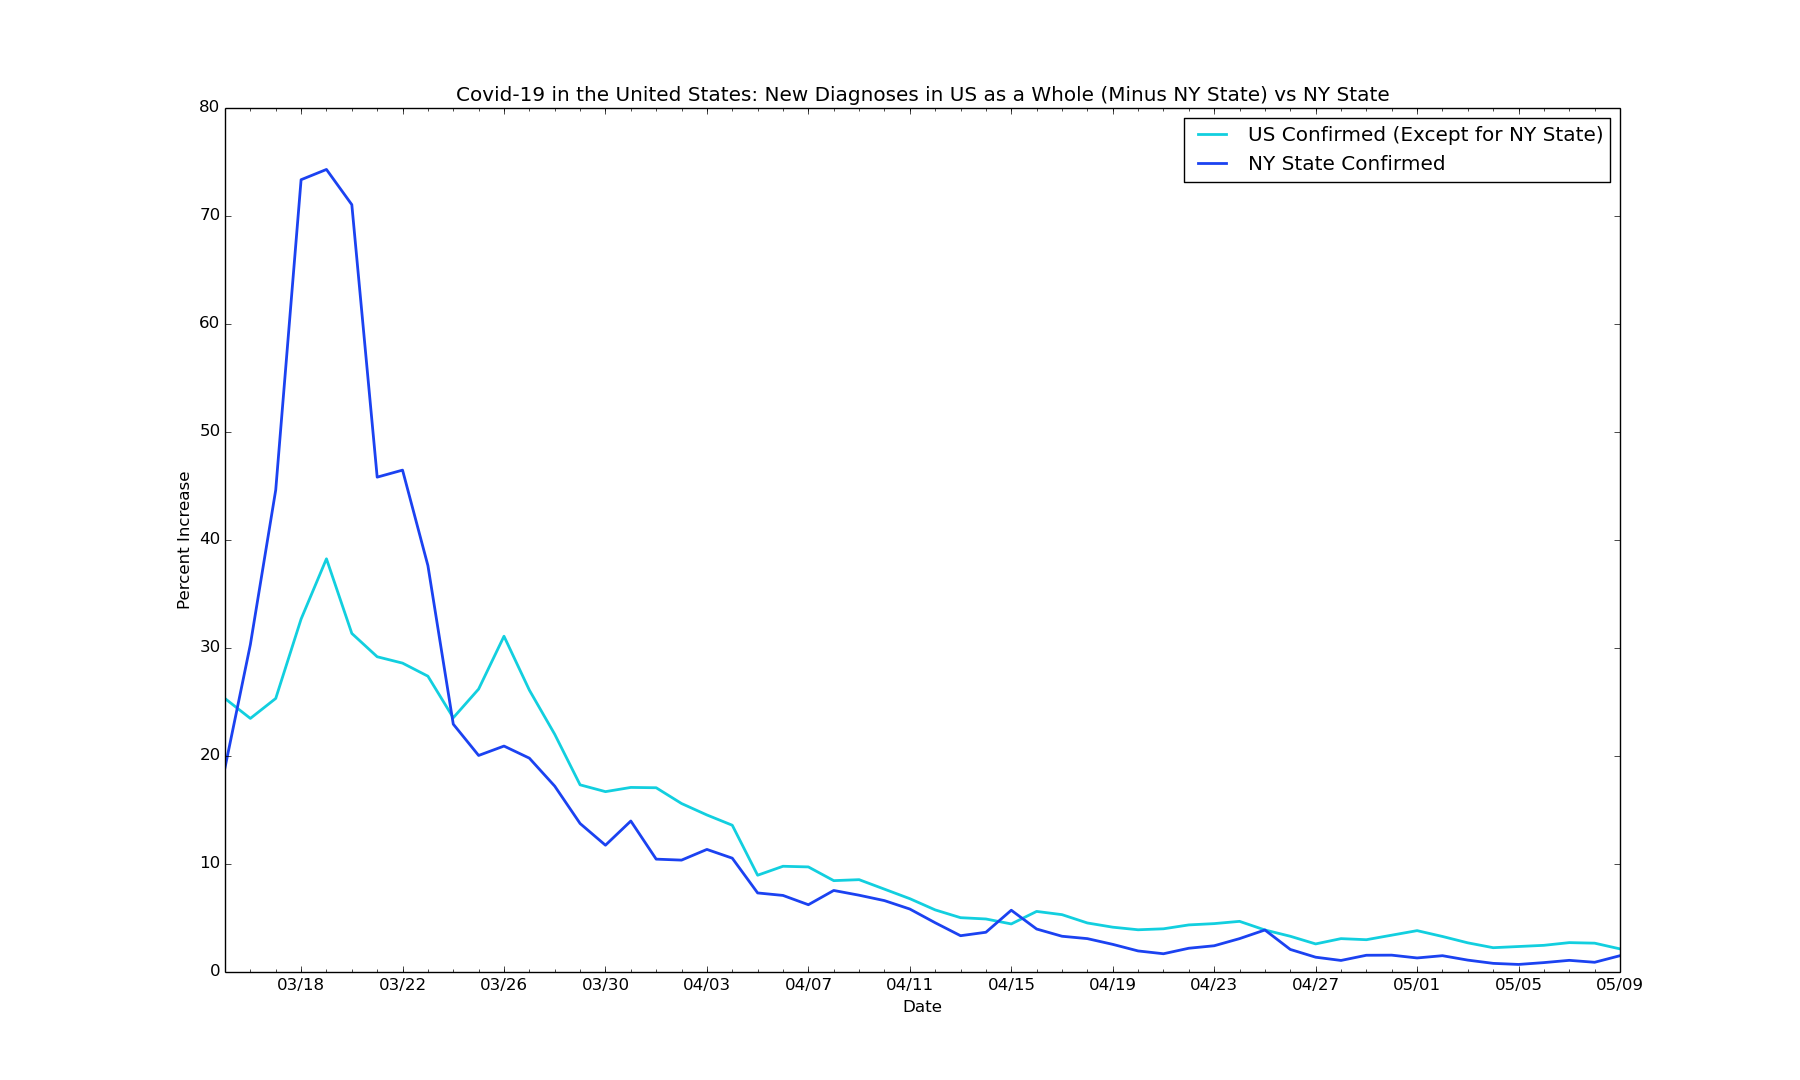
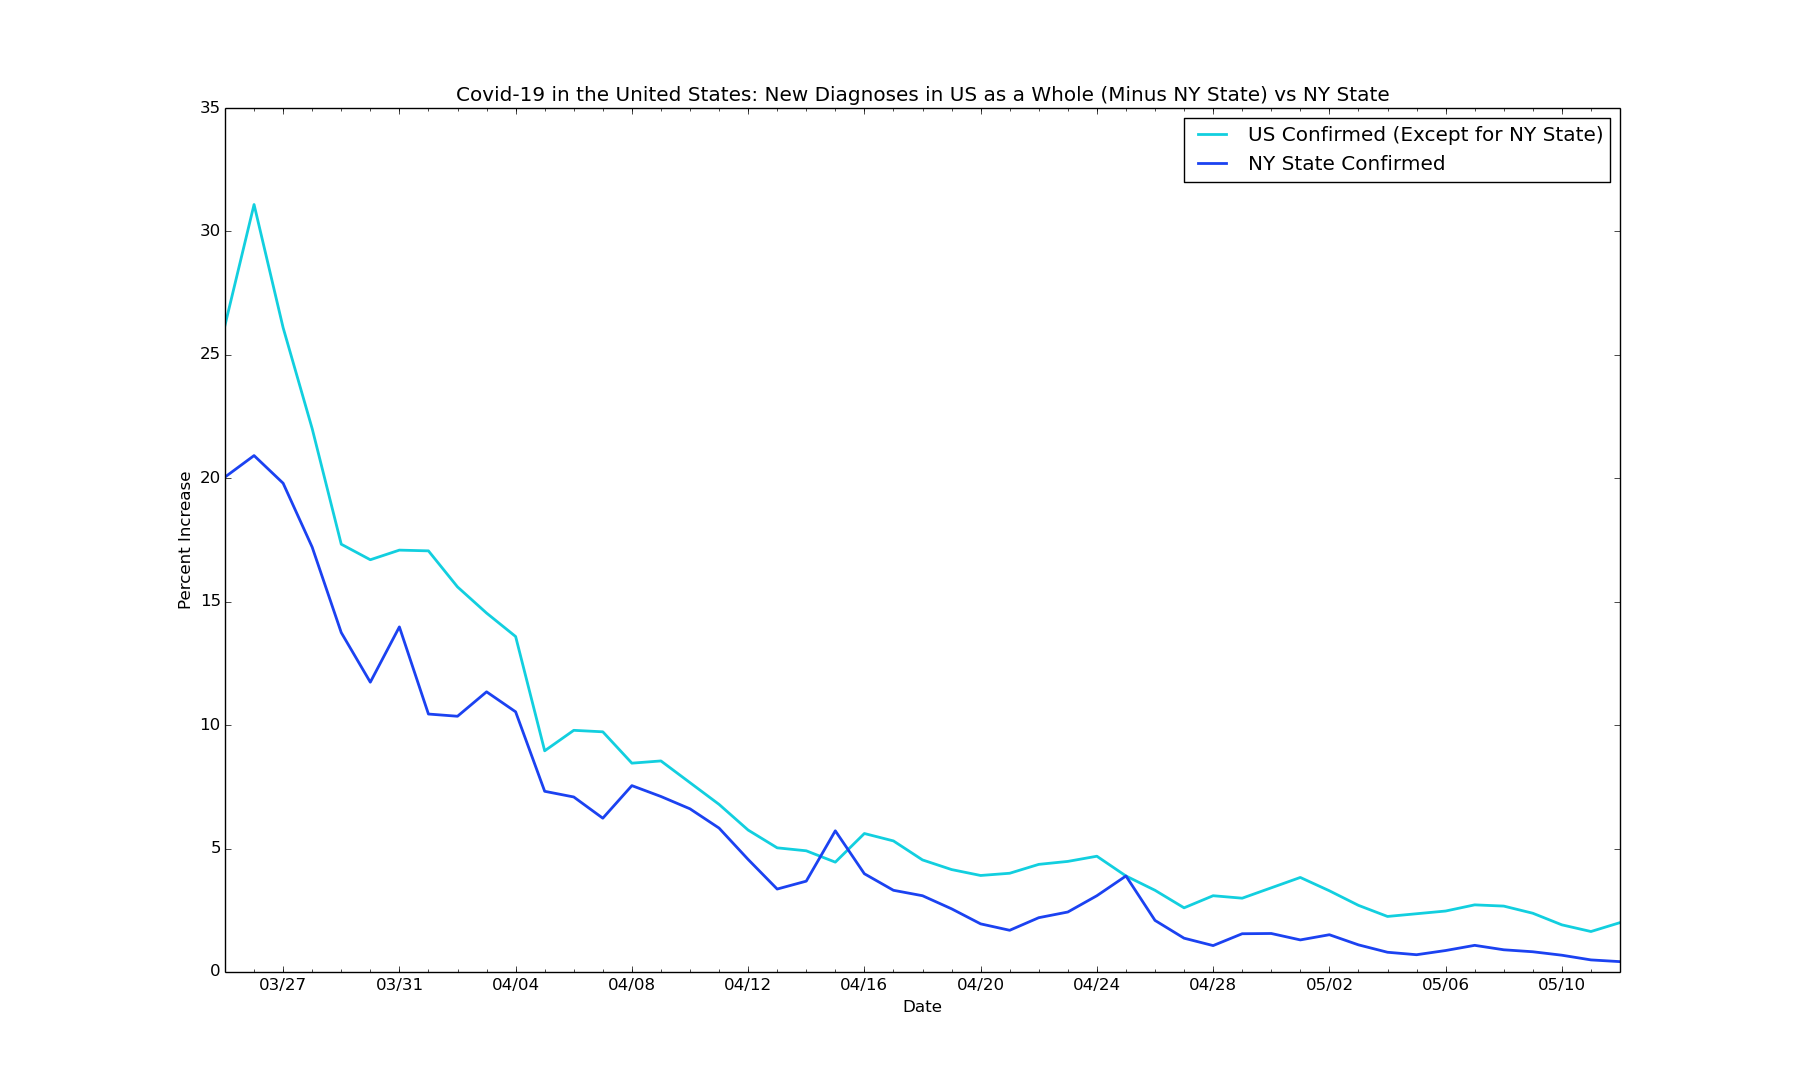
chore: Update for 5/12 data + changed starting date

diff --git a/usa/ny-v-us-deaths.py b/usa/ny-v-us-deaths.py
@@ -4,7 +4,7 @@ import matplotlib.dates as mdates
 import matplotlib.ticker as ticker
 from matplotlib.dates import MO, TU, WE, TH, FR, SA, SU
 
-dates = ['3/15/2020', '3/16/2020', '3/17/2020', '3/18/2020', '3/19/2020', '3/20/2020', '3/21/2020', '3/22/2020', '3/23/2020', '3/24/2020', '3/25/2020', '3/26/2020', '3/27/2020', '3/28/2020', '3/29/2020', '3/30/2020', '3/31/2020', '4/1/2020', '4/2/2020', '4/3/2020', '4/4/2020', '4/5/2020', '4/6/2020', '4/7/2020', '4/8/2020', '4/9/2020', '4/10/2020', '4/11/2020', '4/12/2020', '4/13/2020', '4/14/2020', '4/15/2020', '4/16/2020', '4/17/2020', '4/18/2020', '4/19/2020', '4/20/2020', '4/21/2020', '4/22/2020', '4/23/2020', '4/24/2020', '4/25/2020', '4/26/2020', '4/27/2020', '4/28/2020', '4/29/2020', '4/30/2020', '5/1/2020', '5/2/2020', '5/3/2020', '5/4/2020', '5/5/2020', '5/6/2020', '5/7/2020', '5/8/2020', '5/9/2020']
+dates = ['3/25/2020', '3/26/2020', '3/27/2020', '3/28/2020', '3/29/2020', '3/30/2020', '3/31/2020', '4/1/2020', '4/2/2020', '4/3/2020', '4/4/2020', '4/5/2020', '4/6/2020', '4/7/2020', '4/8/2020', '4/9/2020', '4/10/2020', '4/11/2020', '4/12/2020', '4/13/2020', '4/14/2020', '4/15/2020', '4/16/2020', '4/17/2020', '4/18/2020', '4/19/2020', '4/20/2020', '4/21/2020', '4/22/2020', '4/23/2020', '4/24/2020', '4/25/2020', '4/26/2020', '4/27/2020', '4/28/2020', '4/29/2020', '4/30/2020', '5/1/2020', '5/2/2020', '5/3/2020', '5/4/2020', '5/5/2020', '5/6/2020', '5/7/2020', '5/8/2020', '5/9/2020', '5/10/2020', '5/11/2020', '5/12/2020']
 
 # format dates
 x_values = [datetime.datetime.strptime(d, "%m/%d/%Y").date() for d in dates]
@@ -21,10 +21,10 @@ ax.xaxis.set_minor_locator(mdates.WeekdayLocator(byweekday=(MO, TU, WE, TH, FR, 
 ax.get_yaxis().set_major_formatter(ticker.FuncFormatter(lambda x, pos: format(int(x), ',')))
 
 # us deaths (minus NY state deaths)
-us_deaths = [9.26, 16.95, 23.19, 25.88, 28.04, 34.31, 30.43, 38.33, 9.04, 13.26, 51.46, 24.64, 38.63, 22.18, 11.82, 20.53, 27.67, 24.34, 22.92, 18.1, 17.73, 12.12, 11.44, 19.95, 16.1, 12.67, 13.84, 10.52, 6.13, 6.3, 11.99, 11.28, 9.23, 7.98, 6.13, 5.4, 5.28, 9.15, 6.69, 5.8, 5.2, 4.6, 2.65, 2.81, 5.54, 6.23, 4.76, 3.88, 3.4, 1.98, 1.56, 5.16, 1.71, 5.83, 3.1, 2.15]
+us_deaths = [51.46, 24.64, 38.63, 22.18, 11.82, 20.53, 27.67, 24.34, 22.92, 18.1, 17.73, 12.12, 11.44, 19.95, 16.1, 12.67, 13.84, 10.52, 6.13, 6.3, 11.99, 11.28, 9.23, 7.98, 6.13, 5.4, 5.28, 9.15, 6.69, 5.8, 5.2, 4.6, 2.65, 2.81, 5.54, 6.23, 4.76, 3.88, 3.4, 1.98, 1.56, 5.16, 1.71, 5.83, 3.1, 2.56, 1.43, 1.29, 2.59]
 
 # ny state deaths
-ny_deaths = [50, 133.33, 71.43, 33.33, 137.5, 21.05, 26.09, 31.03, 106.58, 72.61, 5.17, 35.09, 34.81, 40.27, 32.55, 26.22, 27.26, 25.23, 22.26, 23.68, 21.47, 16.66, 14.4, 15.36, 14.19, 12.75, 10.99, 9.98, 8.79, 7.15, 7.74, 6.94, 5.23, 5.17, 4.21, 3.79, 3.52, 3.28, 3.2, 2.86, 2.68, 2.7, 2.21, 1.99, 1.94, 2.14, 1.7, 1.58, 1.61, 1.48, 1.18, 1.18, 4.85, 1.12, 1.04, 2.06]
+ny_deaths = [5.17, 35.09, 34.81, 40.27, 32.55, 26.22, 27.26, 25.23, 22.26, 23.68, 21.47, 16.66, 14.4, 15.36, 14.19, 12.75, 10.99, 9.98, 8.79, 7.15, 7.74, 6.94, 5.23, 5.17, 4.21, 3.79, 3.52, 3.28, 3.2, 2.86, 2.68, 2.7, 2.21, 1.99, 1.94, 2.14, 1.7, 1.58, 1.61, 1.48, 1.18, 1.18, 4.85, 1.12, 1.04, 1.07, .97, .75, .95]
 
 # create the graph
 plt.plot(x_values, us_deaths, color='#f28706', linewidth=2)

diff --git a/usa/ny-v-us-cases.py b/usa/ny-v-us-cases.py
@@ -4,7 +4,7 @@ import matplotlib.dates as mdates
 import matplotlib.ticker as ticker
 from matplotlib.dates import MO, TU, WE, TH, FR, SA, SU
 
-dates = ['3/15/2020', '3/16/2020', '3/17/2020', '3/18/2020', '3/19/2020', '3/20/2020', '3/21/2020', '3/22/2020', '3/23/2020', '3/24/2020', '3/25/2020', '3/26/2020', '3/27/2020', '3/28/2020', '3/29/2020', '3/30/2020', '3/31/2020', '4/1/2020', '4/2/2020', '4/3/2020', '4/4/2020', '4/5/2020', '4/6/2020', '4/7/2020', '4/8/2020', '4/9/2020', '4/10/2020', '4/11/2020', '4/12/2020', '4/13/2020', '4/14/2020', '4/15/2020', '4/16/2020', '4/17/2020', '4/18/2020', '4/19/2020', '4/20/2020', '4/21/2020', '4/22/2020', '4/23/2020', '4/24/2020', '4/25/2020', '4/26/2020', '4/27/2020', '4/28/2020', '4/29/2020', '4/30/2020', '5/1/2020', '5/2/2020', '5/3/2020', '5/4/2020', '5/5/2020', '5/6/2020', '5/7/2020', '5/8/2020', '5/9/2020']
+dates = ['3/25/2020', '3/26/2020', '3/27/2020', '3/28/2020', '3/29/2020', '3/30/2020', '3/31/2020', '4/1/2020', '4/2/2020', '4/3/2020', '4/4/2020', '4/5/2020', '4/6/2020', '4/7/2020', '4/8/2020', '4/9/2020', '4/10/2020', '4/11/2020', '4/12/2020', '4/13/2020', '4/14/2020', '4/15/2020', '4/16/2020', '4/17/2020', '4/18/2020', '4/19/2020', '4/20/2020', '4/21/2020', '4/22/2020', '4/23/2020', '4/24/2020', '4/25/2020', '4/26/2020', '4/27/2020', '4/28/2020', '4/29/2020', '4/30/2020', '5/1/2020', '5/2/2020', '5/3/2020', '5/4/2020', '5/5/2020', '5/6/2020', '5/7/2020', '5/8/2020', '5/9/2020', '5/10/2020', '5/11/2020', '5/12/2020']
 
 # format dates
 x_values = [datetime.datetime.strptime(d, "%m/%d/%Y").date() for d in dates]
@@ -21,10 +21,10 @@ ax.xaxis.set_minor_locator(mdates.WeekdayLocator(byweekday=(MO, TU, WE, TH, FR, 
 ax.get_yaxis().set_major_formatter(ticker.FuncFormatter(lambda x, pos: format(int(x), ',')))
 
 # us cases (minus NY state cases)
-us_cases = [25.32, 23.48, 25.33, 32.68, 38.26, 31.35, 29.19, 28.6, 27.39, 23.54, 26.2, 31.09, 26.1, 22.01, 17.33, 16.7, 17.09, 17.06, 15.6, 14.54, 13.59, 8.96, 9.79, 9.73, 8.46, 8.55, 7.67, 6.79, 5.75, 5.03, 4.91, 4.45, 5.61, 5.31, 4.54, 4.15, 3.91, 4, 4.36, 4.48, 4.69, 3.89, 3.31, 2.6, 3.09, 2.99, 3.41, 3.83, 3.29, 2.7, 2.25, 2.36, 2.47, 2.72, 2.67, 2.14]
+us_cases = [26.2, 31.09, 26.1, 22.01, 17.33, 16.7, 17.09, 17.06, 15.6, 14.54, 13.59, 8.96, 9.79, 9.73, 8.46, 8.55, 7.67, 6.79, 5.75, 5.03, 4.91, 4.45, 5.61, 5.31, 4.54, 4.15, 3.91, 4, 4.36, 4.48, 4.69, 3.89, 3.31, 2.6, 3.09, 2.99, 3.41, 3.83, 3.29, 2.7, 2.25, 2.36, 2.47, 2.72, 2.67, 2.38, 1.91, 1.64, 2]
 
 # ny state cases
-ny_cases = [18.92, 30.32, 44.63, 73.36, 74.31, 71.05, 45.82, 46.47, 37.63, 22.95, 20.05, 20.92, 19.8, 17.21, 13.75, 11.74, 13.98, 10.45, 10.36, 11.35, 10.54, 7.32, 7.09, 6.23, 7.55, 7.11, 6.61, 5.83, 4.56, 3.36, 3.68, 5.72, 3.98, 3.31, 3.09, 2.56, 1.95, 1.69, 2.2, 2.43, 3.09, 3.89, 2.09, 1.37, 1.07, 1.55, 1.56, 1.3, 1.51, 1.1, .8, .7, .87, 1.08, .9, 1.51]
+ny_cases = [20.05, 20.92, 19.8, 17.21, 13.75, 11.74, 13.98, 10.45, 10.36, 11.35, 10.54, 7.32, 7.09, 6.23, 7.55, 7.11, 6.61, 5.83, 4.56, 3.36, 3.68, 5.72, 3.98, 3.31, 3.09, 2.56, 1.95, 1.69, 2.2, 2.43, 3.09, 3.89, 2.09, 1.37, 1.07, 1.55, 1.56, 1.3, 1.51, 1.1, .8, .7, .87, 1.08, .9, .82, .68, .49, .42]
 
 # create the graph
 plt.plot(x_values, us_cases, color='#12cfdf', linewidth=2)
